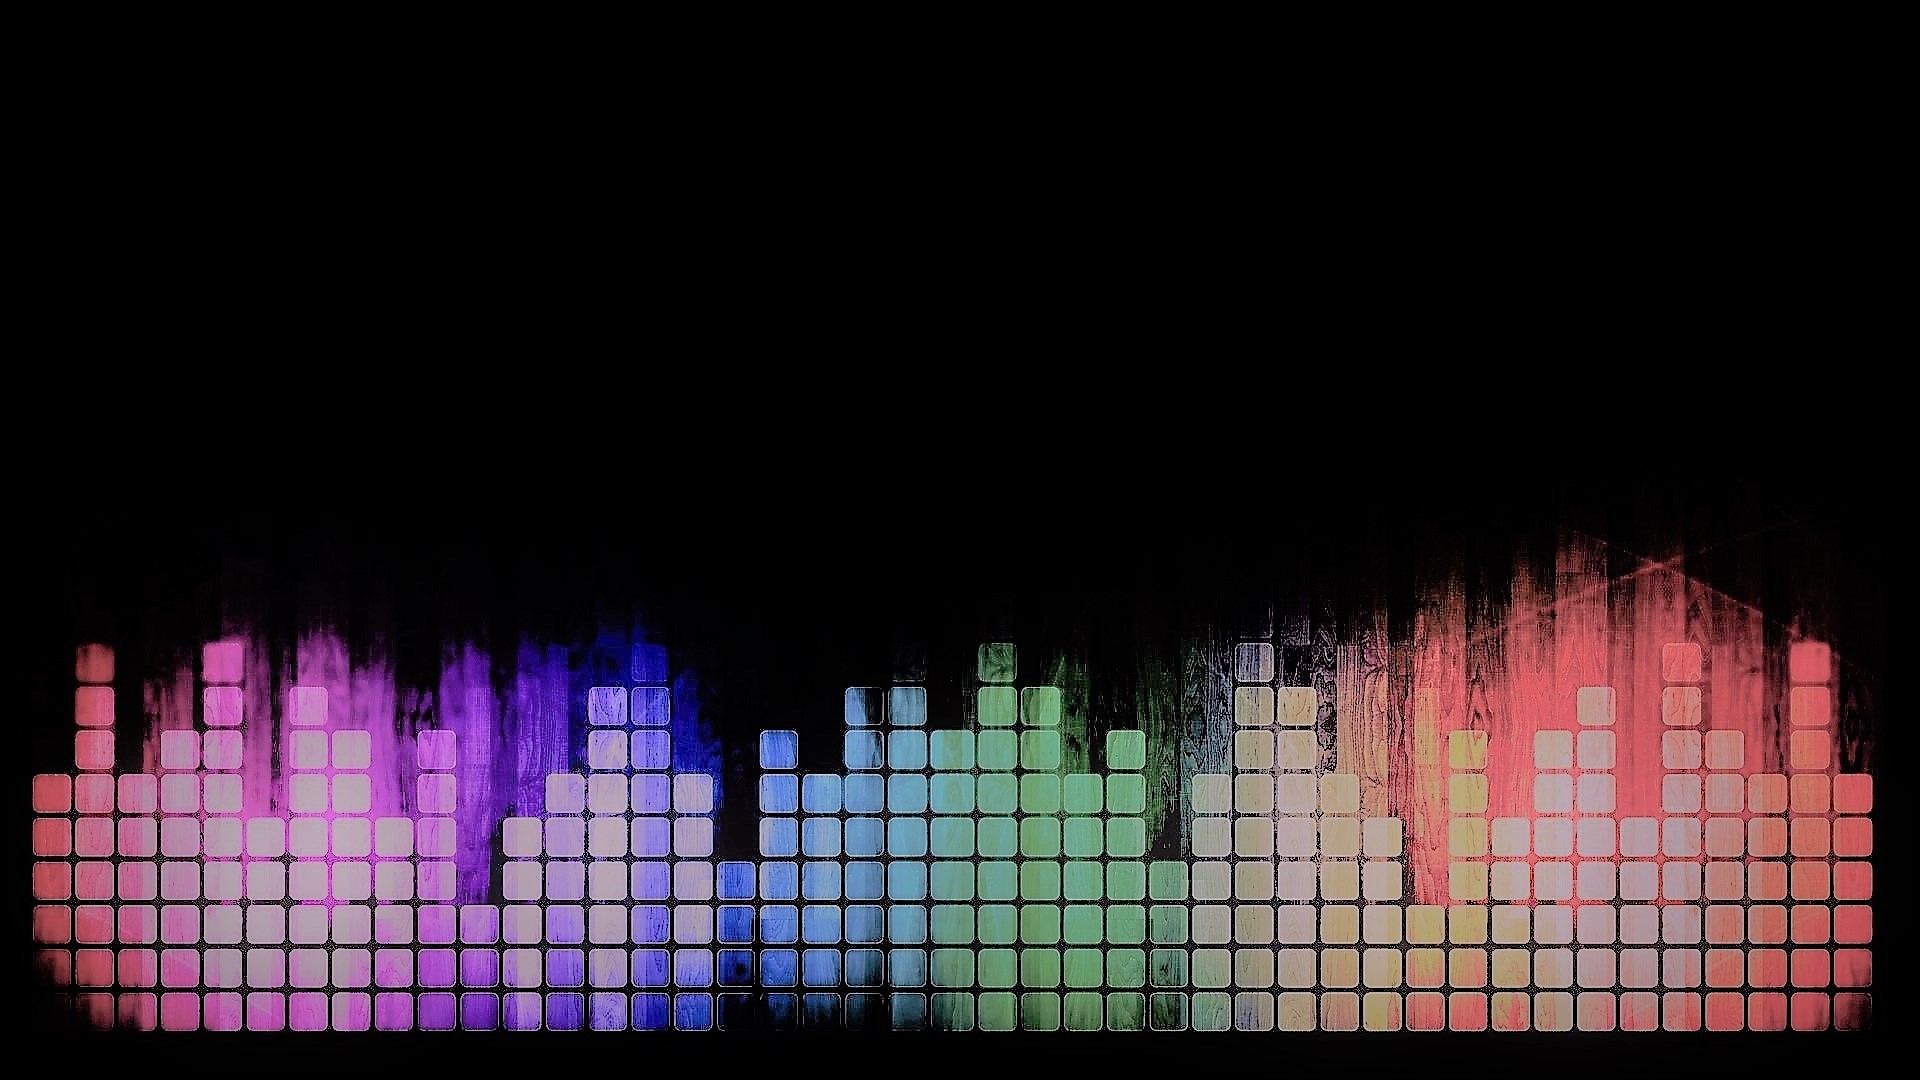
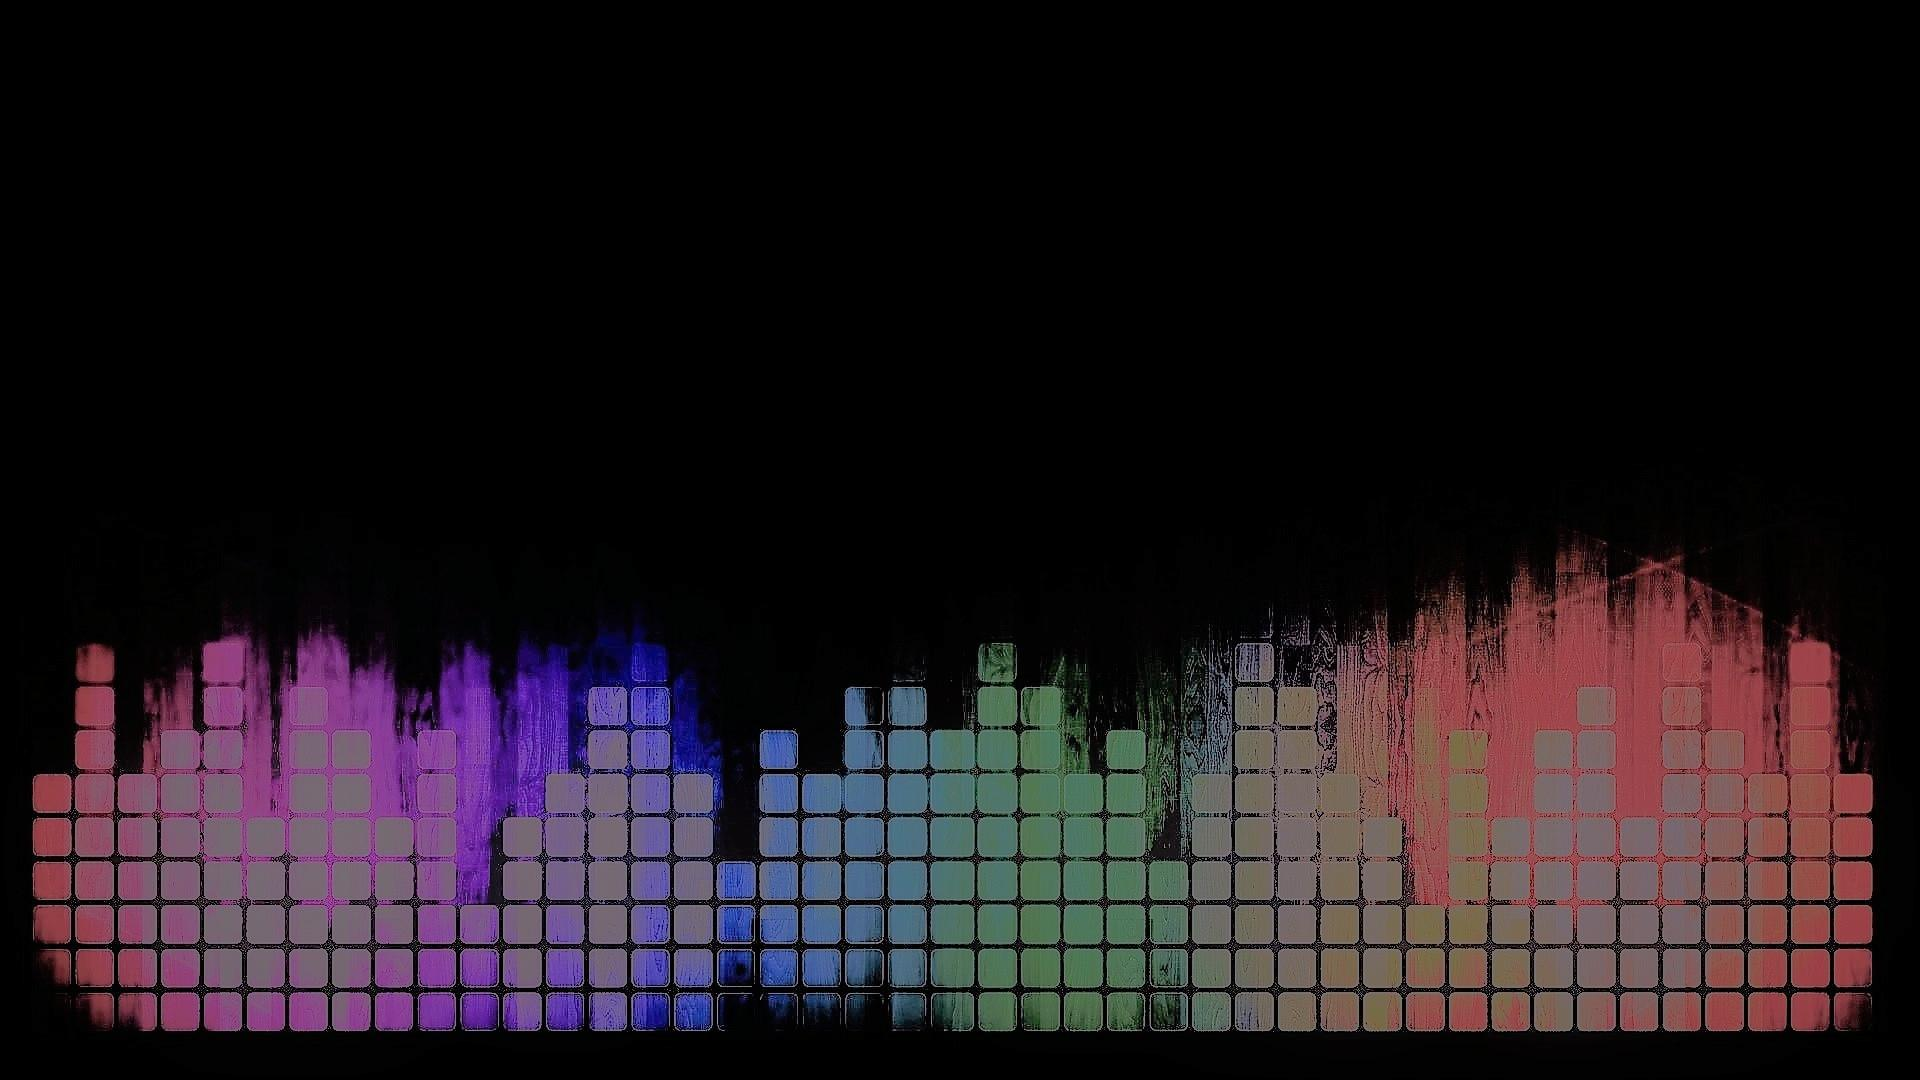
SE FINALIZO EL PROYECTO. IMAGENES OPTIMIZADAS

Changed region(s): [[0.0, 0.55, 1.0, 0.9778]]

diff --git a/pages/signatureGibson.html b/pages/signatureGibson.html
@@ -117,9 +117,9 @@
                 <i class="fa-solid fa-caret-up"></i>
                 <img src="../multimedia/img/signature-gibson-compra-slide-img51.jpg"
                     alt="signature-gibson-compra-slide-img51">
-                <img src="../multimedia/img/signature-gibson-compra-slide-img1.png"
+                <img src="../multimedia/img/signature-gibson-compra-slide-img1.jpg"
                     alt="signature-gibson-compra-slide-img1">
-                <img src="../multimedia/img/signature-gibson-compra-slide-img2.png"
+                <img src="../multimedia/img/signature-gibson-compra-slide-img2.jpg"
                     alt="signature-gibson-compra-slide-img2">
                 <img src="../multimedia/img/signature-gibson-compra-slide-img3.png"
                     alt="signature-gibson-compra-slide-img3">
@@ -166,7 +166,7 @@
                 alt="Gibson-Adam Jones 1979 Les Paul Custom">
             <img src="../multimedia/img/Gibson-Les-Paul-Adam-Jones-02.jpg" alt="Gibson-Les-Paul-Adam-Jones-02">
             <img src="../multimedia/img/Gibson-Les-Paul-Adam-Jones-03.jpg" alt="Gibson-Les-Paul-Adam-Jones-03">
-            <img src="../multimedia/img/Gibson-ADAM-JONES.jpeg" alt="Gibson-ADAM-JONES">
+            <img src="../multimedia/img/Gibson-ADAM-JONES.jpg" alt="Gibson-ADAM-JONES">
             <img src="../multimedia/img/Gibson-Les-Paul-Adam-Jones-05.jpg" alt="Gibson-Les-Paul-Adam-Jones-05">
             <img src="../multimedia/img/Gibson-Les-Paul-Adam-Jones-06.jpg" alt="Gibson-Les-Paul-Adam-Jones-06">
             <img src="../multimedia/img/Gibson-Les-Paul-Adam-Jones-07.jpg" alt="Gibson-Les-Paul-Adam-Jones-07">

diff --git a/index.html b/index.html
@@ -241,7 +241,7 @@
                     <p class="boton-compra">COMPRAR</p>
                 </a>
                 <a href="">
-                    <img src="./multimedia/img/main-destacados-auriculares.png" alt="main-destacados-auriculares" />
+                    <img src="./multimedia/img/main-destacados-auriculares.jpg" alt="main-destacados-auriculares" />
                     <p class="precio">$ 205.000</p>
                     <p class="descripcion">
                         Monitores HD 25 Plus High sensitivity due to lightweight aluminium
